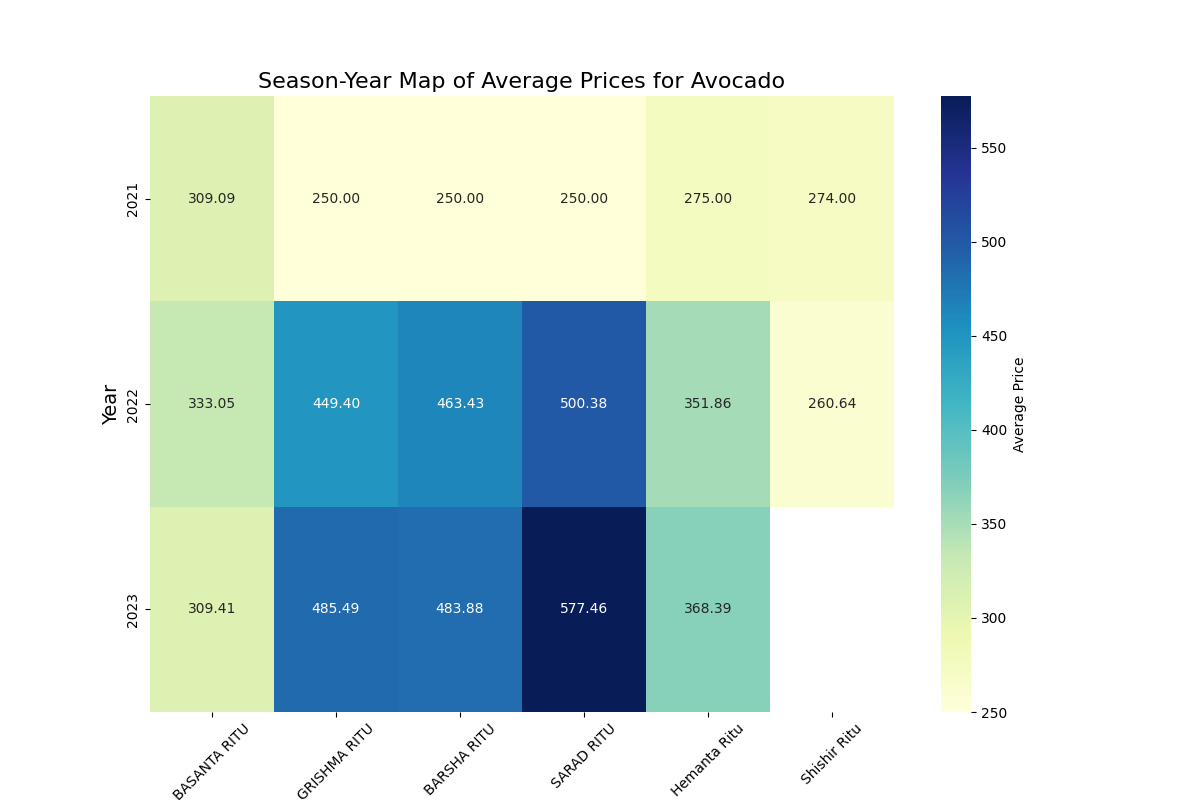
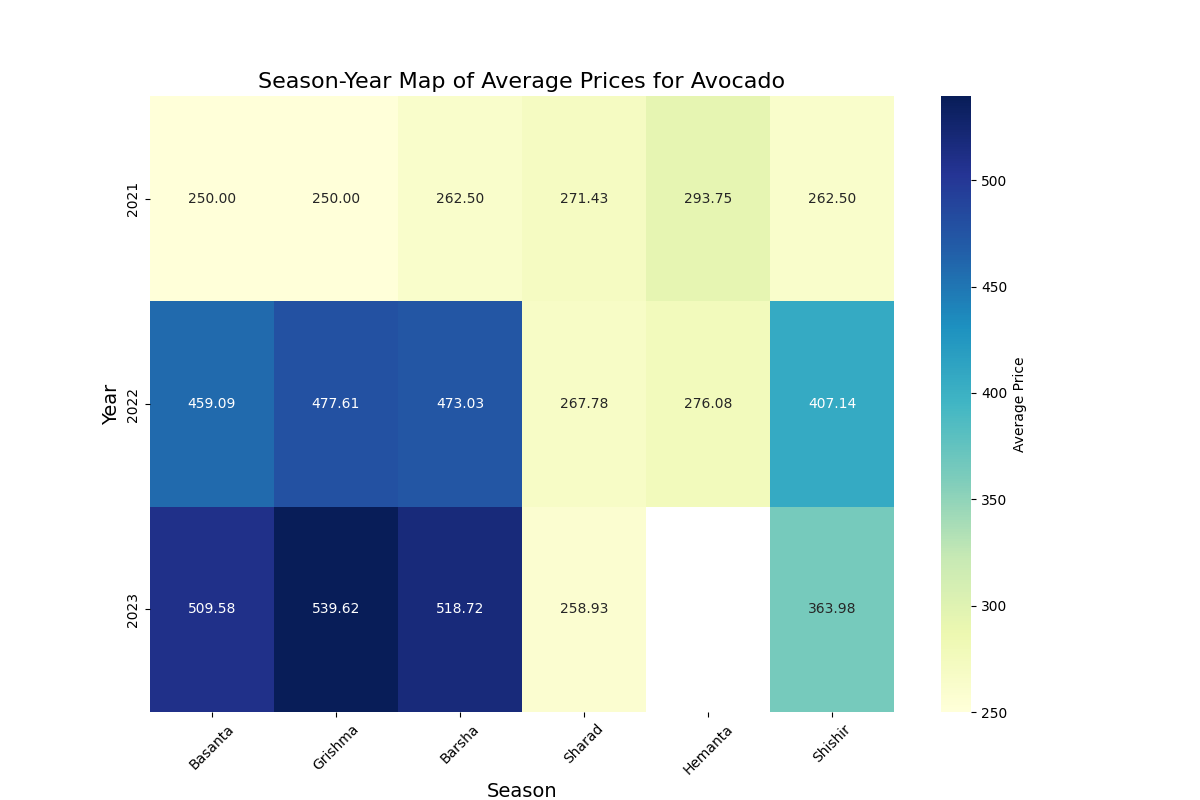
fix: The months and season are as it should be now

diff --git a/scripts/analysis/season_analysis.py b/scripts/analysis/season_analysis.py
@@ -14,12 +14,12 @@ data['Year'] = data['Date'].dt.year
 
 # Step 2: Map months to Nepali seasons
 season_map = {
-    12: "BASANTA RITU", 1: "BASANTA RITU",
-    2: "GRISHMA RITU", 3: "GRISHMA RITU",
-    4: "BARSHA RITU", 5: "BARSHA RITU",
-    6: "SARAD RITU", 7: "SARAD RITU",
-    8: "Hemanta Ritu", 9: "Hemanta Ritu",
-    10: "Shishir Ritu", 11: "Shishir Ritu"
+    3: "Basanta", 4: "Basanta",
+    5: "Grishma", 6: "Grishma", 
+    7: "Barsha", 8: "Barsha",
+    9: "Sharad", 10: "Sharad",
+    11: "Hemanta", 12: "Hemanta",
+    1: "Shishir", 2: "Shishir"
 }
 data['Season'] = data['Month'].map(season_map)
 
@@ -42,8 +42,7 @@ def save_commodity_seasonal_analysis(commodity_name, df, save_path):
     commodity_data = df[df['Commodity'] == commodity_name]
     
     # Order of seasons
-    season_order = ["BASANTA RITU", "GRISHMA RITU", "BARSHA RITU", 
-                    "SARAD RITU", "Hemanta Ritu", "Shishir Ritu"]
+    season_order = ["Basanta", "Grishma", "Barsha", "Sharad", "Hemanta", "Shishir"]
     
     # Ensure directories exist
     create_directory(f"{save_path}/seasonal_trends_box")
@@ -52,9 +51,13 @@ def save_commodity_seasonal_analysis(commodity_name, df, save_path):
     # Sanitize the commodity name for the file name
     commodity_name_safe = sanitize_filename(commodity_name)
 
+    # Filter the season_order to include only the seasons present in the data
+    present_seasons = commodity_data['Season'].unique()
+    filtered_season_order = [season for season in season_order if season in present_seasons]
+
     # Boxplot
     plt.figure(figsize=(12, 6))
-    sns.boxplot(data=commodity_data, x='Season', y='Average', order=season_order)
+    sns.boxplot(data=commodity_data, x='Season', y='Average', order=filtered_season_order)
     plt.title(f"Box Plot of Average Prices for {commodity_name}", fontsize=16)
     plt.xlabel("Season", fontsize=14)
     plt.ylabel("Average Price", fontsize=14)
@@ -78,8 +81,7 @@ def save_commodity_season_year_analysis(commodity_name, df, save_path):
     commodity_data = df[df['Commodity'] == commodity_name]
     
     # Order of seasons
-    season_order = ["BASANTA RITU", "GRISHMA RITU", "BARSHA RITU", 
-                    "SARAD RITU", "Hemanta Ritu", "Shishir Ritu"]
+    season_order = ["Basanta", "Grishma", "Barsha", "Sharad", "Hemanta", "Shishir"]
     
     # Pivot the data for heatmap
     pivot_data = commodity_data.pivot(index='Year', columns='Season', values='Average').reindex(columns=season_order)

diff --git a/app.py b/app.py
@@ -186,6 +186,27 @@ def calculate_yearly_trends(commodity_name):
     plt.tight_layout()
     st.pyplot(fig)
 
+def display_saved_figures(commodity_name):
+    vis_dir = "./visualizationFig"
+    if not os.path.exists(vis_dir):
+        st.error("Visualization directory not found.")
+        return
+    
+    # Recursively list all files in the visualization directory
+    files = []
+    for root, _, filenames in os.walk(vis_dir):
+        for filename in filenames:
+            if commodity_name in filename:
+                files.append(os.path.join(root, filename))
+    
+    if not files:
+        st.write(f"No saved figures found for {commodity_name}.")
+        return
+    
+    st.write(f"Saved figures for {commodity_name}:")
+    for file in files:
+        st.image(file, caption=os.path.basename(file))
+
 if st.button("Predict Price"):
     forecast = predict_price(commodity_name, target_date)
     if forecast is not None:
@@ -240,6 +261,9 @@ if st.button("Calculate Seasonal Averages"):
 
 if st.button("Calculate Yearly Trends"):
     calculate_yearly_trends(commodity_name)
+
+if st.button("Show Saved Figures"):
+    display_saved_figures(commodity_name)
 
 kmeans = joblib.load("./models/kmeans_model.joblib")
 scaler = joblib.load("./models/scaler.joblib")
